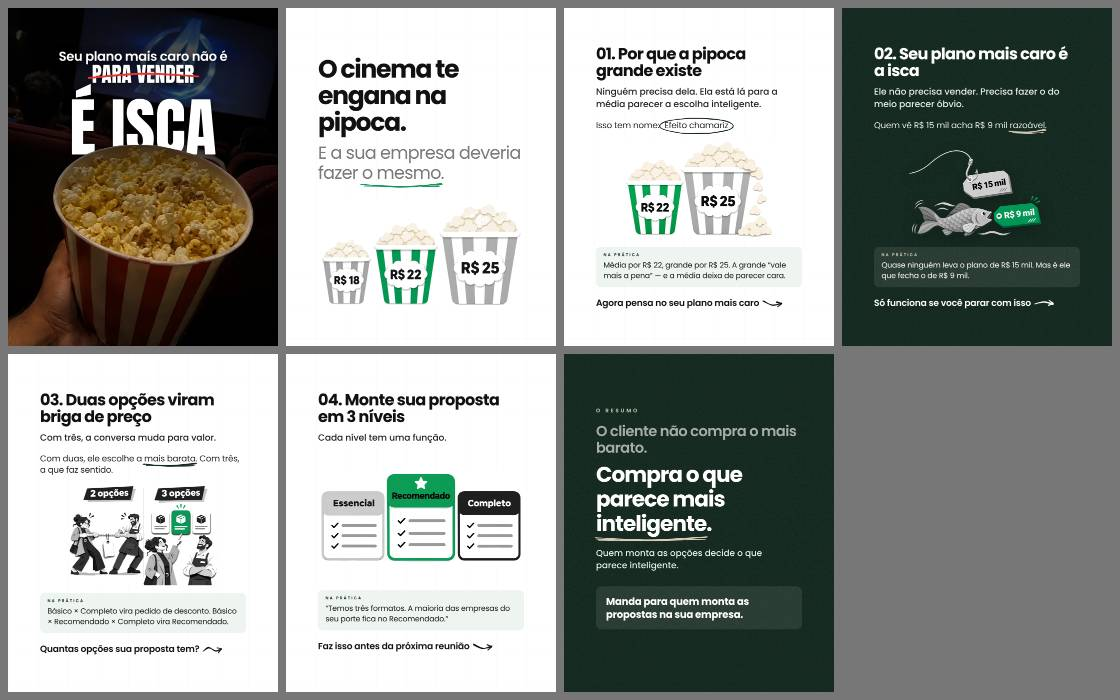
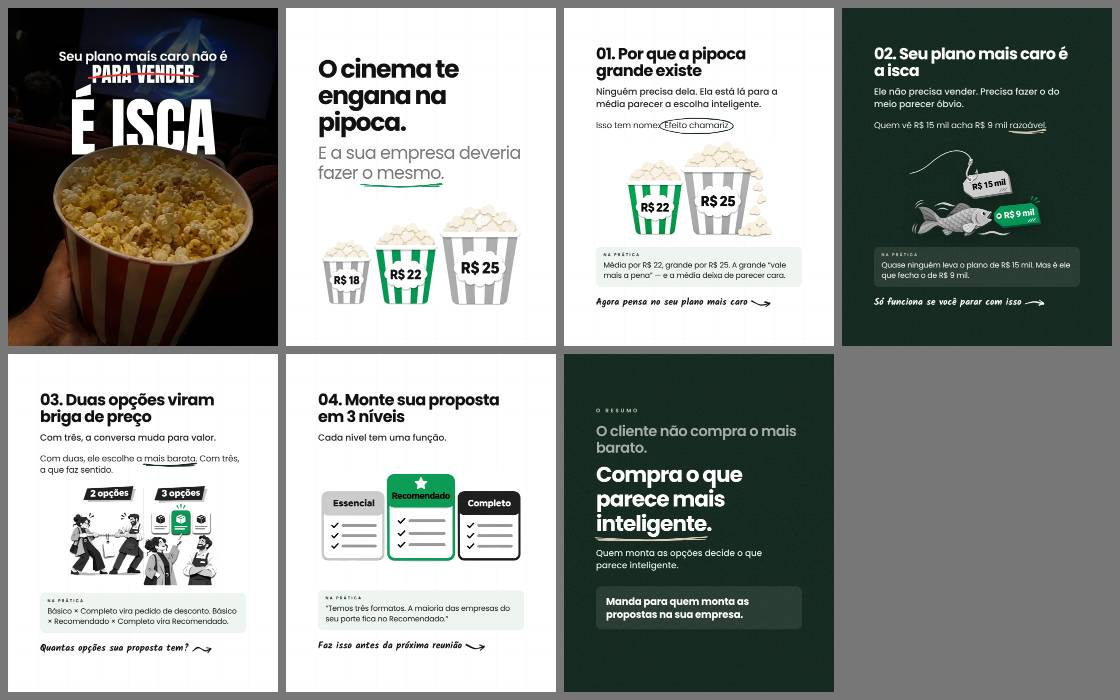
Ganchos em letra de mão legível (Kalam)
Claude-Session: https://claude.ai/code/session_01CR2zLXebwu2nvAjBiSDjK9

diff --git a/carrossel/index.html b/carrossel/index.html
@@ -6,7 +6,7 @@
 <title>Gerador de Carrossel Zanellato</title>
 <link rel="preconnect" href="https://fonts.googleapis.com">
 <link rel="preconnect" href="https://fonts.gstatic.com" crossorigin>
-<link crossorigin="anonymous" rel="stylesheet" href="https://fonts.googleapis.com/css2?family=Anton&family=Archivo:wght@500;700;800;900&family=Instrument+Serif:ital@0;1&family=Caveat:wght@500;600;700&family=IBM+Plex+Mono:wght@400;500&family=Poppins:ital,wght@0,300;0,400;0,500;0,600;0,700;0,800;1,400&family=Source+Serif+4:ital,opsz,wght@0,8..60,600;0,8..60,700;0,8..60,900;1,8..60,600&display=swap">
+<link crossorigin="anonymous" rel="stylesheet" href="https://fonts.googleapis.com/css2?family=Anton&family=Archivo:wght@500;700;800;900&family=Instrument+Serif:ital@0;1&family=Caveat:wght@500;600;700&family=Kalam:wght@700&family=IBM+Plex+Mono:wght@400;500&family=Poppins:ital,wght@0,300;0,400;0,500;0,600;0,700;0,800;1,400&family=Source+Serif+4:ital,opsz,wght@0,8..60,600;0,8..60,700;0,8..60,900;1,8..60,600&display=swap">
 <style>
 /* ============================================================
    UI DO EDITOR
@@ -162,7 +162,7 @@ body.render .frame .num{display:none}
 .ex .exl{display:block;font:600 16px/1 Poppins,sans-serif;letter-spacing:.32em;text-transform:uppercase;color:var(--ac);margin-bottom:12px}
 .ovl{position:absolute;left:0;top:0;width:1080px;height:1350px;z-index:6;pointer-events:none;overflow:visible}
 .ovl text{font-family:Caveat,cursive;font-weight:600}
-.gancho{position:relative;z-index:5;margin-top:40px;align-self:flex-start;padding-right:96px;font:600 36px/1.25 Poppins,sans-serif;letter-spacing:-.015em;color:var(--ink);max-width:100%}
+.gancho{position:relative;z-index:5;margin-top:40px;align-self:flex-start;padding-right:96px;font:700 38px/1.2 Kalam,cursive;color:var(--ink);max-width:100%}
 .hc,.hu{position:relative;white-space:nowrap}
 .hc{margin:0 .35em}
 .pics.first{margin-top:0;margin-bottom:48px}

diff --git a/.claude/skills/carrossel/SKILL.md b/.claude/skills/carrossel/SKILL.md
@@ -29,8 +29,8 @@ Objetivo: máxima qualidade com o mínimo de tokens. **Não leia** `index.html`,
   Legibilidade (**só em capas P&B**, com `"pb": true`): máscara preta em toda a foto (`mascara`, padrão 0.18) + fade preto do topo até abaixo do título (`fade_forca` 0.66, `fade_extra` 300 px; `"fade": false` desliga). O recorte recebe o mesmo escurecimento. Capas coloridas: só o sombreado leve do topo (`escurecer`, padrão 0.2). `escala` (padrão 1) reduz/aumenta o título inteiro.
   `espaco` (opcional, padrão 1) multiplica o espaço entre as linhas do título: 0.5 = mais junto, 1.5 = mais solto.
   Layouts: `riscado` (3 linhas: pequena · palavra riscada · gigante) · `padrao` (4: pequena espaçada · média · selo · gigante) · `dois-pesos` (3: pequena · fina · pesada) · `serifa` (3: pequena · itálico serifado · condensada).
-- Slide de conteúdo = título + subtítulo (1 linha) + 1 frase curta com `[[círculo]]`/`{{sublinhado}}` + desenho + **Na prática** (`exemplo`, 1–2 linhas, situação real) + **gancho** (1 linha de até ~34 caracteres, Poppins semibold + seta à mão, sem ponto final, abre curiosidade p/ o próximo).
-- **Legibilidade no celular é prioridade:** subtítulo 36 px peso 500, frase 34 px, gancho 36 px Poppins. Nunca voltar ganchos para letra cursiva. CTA: frase de abertura (`pre`) forte, título grande, `chamada` em caixa tingida.
+- Slide de conteúdo = título + subtítulo (1 linha) + 1 frase curta com `[[círculo]]`/`{{sublinhado}}` + desenho + **Na prática** (`exemplo`, 1–2 linhas, situação real) + **gancho** (1 linha de até ~34 caracteres, letra de mão Kalam 700 + seta à mão, sem ponto final, abre curiosidade p/ o próximo).
+- **Legibilidade no celular é prioridade:** subtítulo 36 px peso 500, frase 34 px, gancho 38 px Kalam (cursiva legível; não usar Caveat no gancho). CTA: frase de abertura (`pre`) forte, título grande, `chamada` em caixa tingida.
 - Capa sobre fundo claro/movimentado: use `"sombra":true` (texto com sombra), `"risco_fino":true` (risco único proporcional, não esconde a palavra) e `"acento_abaixo":true` (acento do É não sobe ao lado da linha de cima). Objeto recortado na frente do título: cobrir no máx. ~15% da altura das letras.
 - Depois de dois-pontos: maiúscula (automático). Último slide sempre `cta` com palavra para comentar.
 - Não invente dados como se fossem reais; números de exemplo devem soar ilustrativos.
